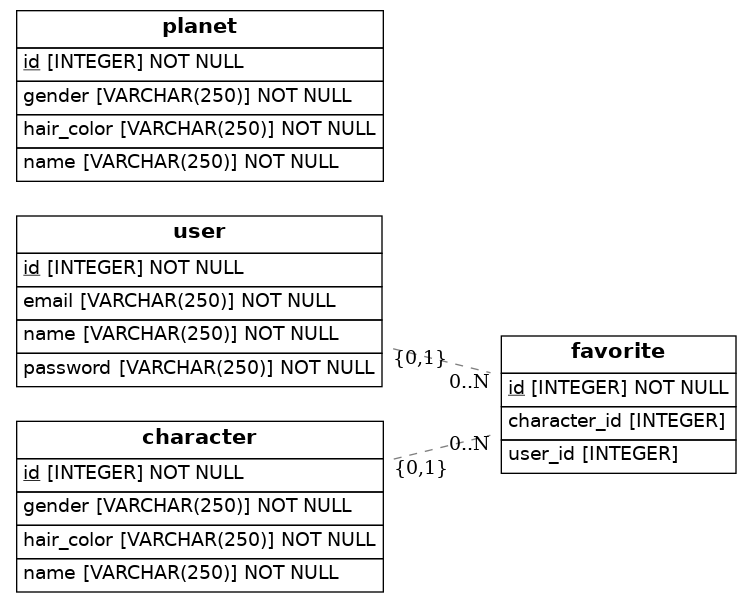
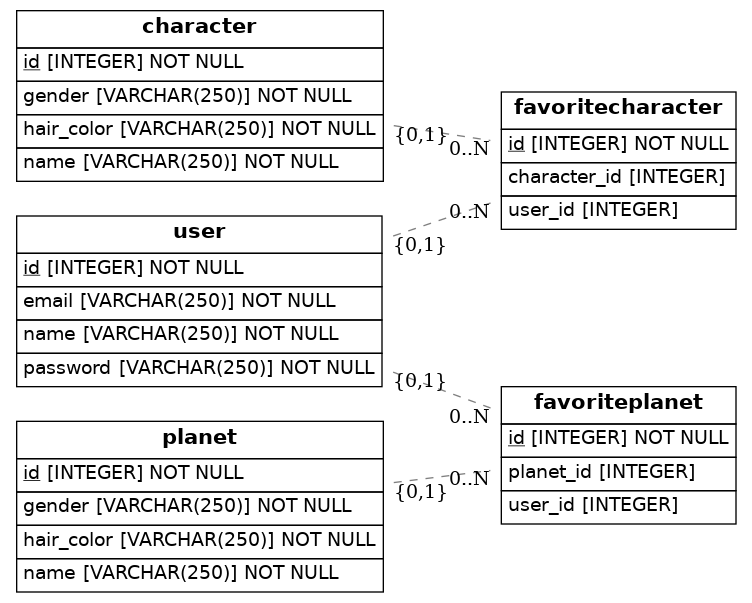
inicio 2

diff --git a/src/models.py b/src/models.py
@@ -8,12 +8,14 @@ from eralchemy2 import render_er
 
 Base = declarative_base()
 
+
 class User(Base):
     __tablename__ = 'user'
     id = Column(Integer, primary_key=True)
     name = Column(String(250), nullable=False)
     email = Column(String(250), nullable=False)
     password = Column(String(250), nullable=False)
+
 
 class Character(Base):
     __tablename__ = 'character'
@@ -22,6 +24,7 @@ class Character(Base):
     gender = Column(String(250), nullable=False)
     hair_color = Column(String(250), nullable=False)
 
+
 class Planet(Base):
     __tablename__ = 'planet'
     id = Column(Integer, primary_key=True)
@@ -29,16 +32,27 @@ class Planet(Base):
     gender = Column(String(250), nullable=False)
     hair_color = Column(String(250), nullable=False)
 
-class Favorite(Base):
-    __tablename__ = 'favorite'
+
+class FavoriteCharacter(Base):
+    __tablename__ = 'favoritecharacter'
     id = Column(Integer, primary_key=True)
     user_id = Column(Integer, ForeignKey('user.id'))
     character_id = Column(Integer, ForeignKey('character.id'))
     user = relationship(User)
     character = relationship(Character)
 
+
+class FavoritePlanet(Base):
+    __tablename__ = 'favoriteplanet'
+    id = Column(Integer, primary_key=True)
+    user_id = Column(Integer, ForeignKey('user.id'))
+    planet_id = Column(Integer, ForeignKey('planet.id'))
+    user = relationship(User)
+    planet = relationship(Planet)
+
     def to_dict(self):
         return {}
 
-## Draw from SQLAlchemy base
+
+# Draw from SQLAlchemy base
 render_er(Base, 'diagram.png')
